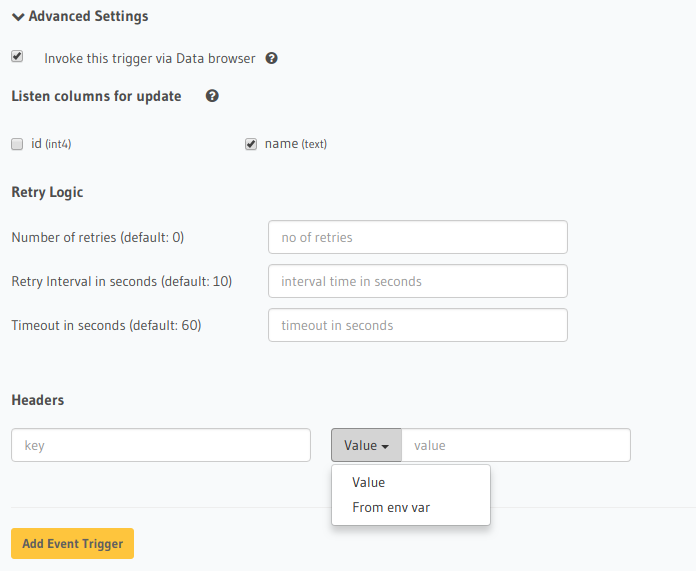
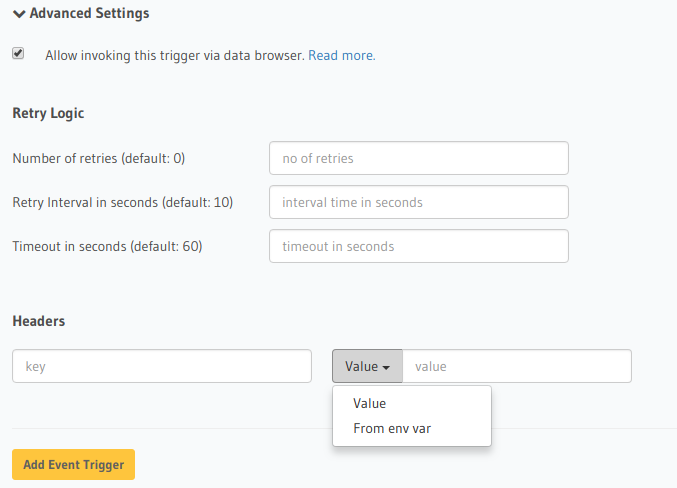
doc updates

diff --git a/docs/graphql/manual/event-triggers/invoke-trigger-console.rst b/docs/graphql/manual/event-triggers/invoke-trigger-console.rst
@@ -7,9 +7,9 @@ Invoke trigger via console
   :local:
 
 
-If you checked the box called ``Invoke trigger via Data Browser`` in the Advanced Settings of your Event Trigger, then you can use the Hasura console or API (:ref:`invoke_event_trigger`) to invoke triggers on rows manually.
+If you checked the box called ``Allow invoking this trigger via data browser`` in the Advanced Settings of your Event Trigger, then you can use the Hasura console or API (:ref:`invoke_event_trigger`) to invoke triggers on rows manually.
 
-In the Data tab, go to your table and browse rows. Choose the run icon next to any row to see the list of event triggers setup on its table:
+In the Data tab, go to your table and browse rows. Choose the ``RUN`` icon next to any row to see the list of event triggers setup on its table:
 
 .. thumbnail:: ../../../img/graphql/manual/event-triggers/select-manual-trigger.png
 

diff --git a/docs/graphql/manual/event-triggers/create-trigger.rst b/docs/graphql/manual/event-triggers/create-trigger.rst
@@ -40,7 +40,7 @@ Advanced Settings
 
 .. thumbnail:: ../../../img/graphql/manual/event-triggers/create-event-trigger-advanced-settings.png
 
-Invoke trigger via Data Browser
+Allow trigger via data browser
 ^^^^^^^^^^^^^^^^^^^^^^^^^^^^^^^
 
 Checking this box allows you to invoke an event trigger on any row via the Hasura console. Enabled by default.
